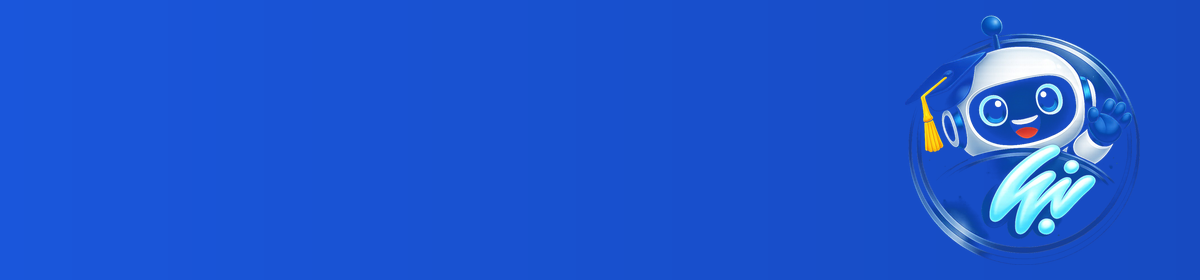
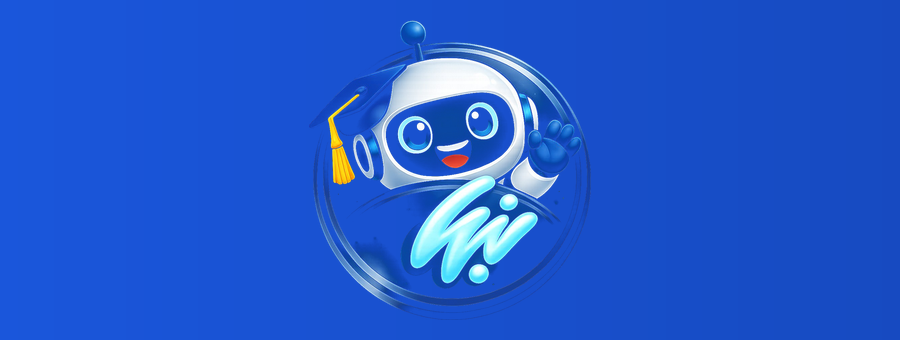
Lead with Projects section, fix mobile crop on advisor image
Move Projects right after About (portfolio should show work first),
renumber section labels and sidebar nav to match. Recenter the robot
mascot in the advisor banner so cover-crop doesn't hide it on narrow
mobile viewports.

Changed region(s): [[0.3422, 0.0571, 0.6844, 0.9143], [0.7467, 0.1143, 0.9644, 0.9143], [0.8089, 0.0571, 0.84, 0.1143]]

diff --git a/index.html b/index.html
@@ -660,9 +660,9 @@ body{
     <nav class="s-nav ld ld-5" aria-label="Page sections">
       <div class="s-nav-lbl">Navigation</div>
       <a href="#about"          class="active" onclick="closeSidebar()">About</a>
+      <a href="#projects"       onclick="closeSidebar()">Projects</a>
       <a href="#experience"     onclick="closeSidebar()">Experience</a>
       <a href="#skills"         onclick="closeSidebar()">Skills</a>
-      <a href="#projects"       onclick="closeSidebar()">Projects</a>
       <a href="#certifications" onclick="closeSidebar()">Certifications</a>
       <a href="#education"      onclick="closeSidebar()">Education</a>
     </nav>
@@ -727,118 +727,9 @@ body{
 
     </section>
 
-    <!-- ── Experience ── -->
-    <section class="sec" id="experience" aria-label="Experience">
-      <div class="sec-lbl rv">02 — Experience</div>
-
-      <div class="tl">
-
-        <div class="tl-row rv" style="transition-delay:.05s">
-          <div class="tl-when">Oct – Dec 2025</div>
-          <div>
-            <div class="tl-role">Cloud Services Trainee</div>
-            <div class="tl-co">National Telecommunication Institute (NTI)</div>
-            <ul class="tl-pts">
-              <li>Hands-on with 8 core AWS services: EC2, S3, IAM, VPC, Lambda, RDS, CloudWatch.</li>
-              <li>Designed secure, scalable architectures aligned with Solutions Architect best practices.</li>
-              <li>Reduced projected cloud costs by 20% through optimized IAM policies and networking.</li>
-            </ul>
-          </div>
-        </div>
-
-        <div class="tl-row rv" style="transition-delay:.10s">
-          <div class="tl-when">Aug 2025</div>
-          <div>
-            <div class="tl-role">NLP Trainee</div>
-            <div class="tl-co">National Telecommunication Institute (NTI)</div>
-            <ul class="tl-pts">
-              <li>Top performer — 98% final score across 120 hours of intensive NLP training.</li>
-              <li>Built RAG-based apps using embedding models and vector databases across 5+ use cases.</li>
-              <li>Improved response relevance by 35% via optimized chunking and similarity search.</li>
-            </ul>
-          </div>
-        </div>
-
-        <div class="tl-row rv" style="transition-delay:.15s">
-          <div class="tl-when">Oct 2024 –<br>Jun 2025</div>
-          <div>
-            <div class="tl-role">ML Trainee</div>
-            <div class="tl-co">Digital Egypt Pioneers Initiative (DEPI)</div>
-            <ul class="tl-pts">
-              <li>9-month intensive program covering NLP, Computer Vision, and end-to-end ML pipelines.</li>
-              <li>Built and evaluated 10+ models with PyTorch — up to 91% accuracy on benchmarks.</li>
-              <li>Deployed on Azure and HuggingFace Spaces, cutting inference latency by 25%.</li>
-            </ul>
-          </div>
-        </div>
-
-      </div>
-    </section>
-
-    <!-- ── Skills ── -->
-    <section class="sec" id="skills" aria-label="Skills">
-      <div class="sec-lbl rv">03 — Skills</div>
-
-      <div class="sk-grid rv" style="transition-delay:.05s">
-
-        <div>
-          <div class="sk-group-lbl">LLMs &amp; Agentic AI</div>
-          <div class="sk-tags">
-            <span class="sk-tag core">LangChain</span>
-            <span class="sk-tag core">LangGraph</span>
-            <span class="sk-tag core">RAG</span>
-            <span class="sk-tag">HuggingFace</span>
-            <span class="sk-tag">CrewAI</span>
-            <span class="sk-tag">n8n</span>
-            <span class="sk-tag">Ollama</span>
-            <span class="sk-tag">Prompt Engineering</span>
-            <span class="sk-tag">Fine-tuning</span>
-          </div>
-        </div>
-
-        <div>
-          <div class="sk-group-lbl">Programming &amp; ML</div>
-          <div class="sk-tags">
-            <span class="sk-tag core">Python (Advanced)</span>
-            <span class="sk-tag core">PyTorch</span>
-            <span class="sk-tag">C++</span>
-            <span class="sk-tag">Pandas</span>
-            <span class="sk-tag">NumPy</span>
-            <span class="sk-tag">YOLO</span>
-            <span class="sk-tag">OpenCV</span>
-            <span class="sk-tag">Sentence Transformers</span>
-          </div>
-        </div>
-
-        <div>
-          <div class="sk-group-lbl">Deployment &amp; Cloud</div>
-          <div class="sk-tags">
-            <span class="sk-tag core">AWS</span>
-            <span class="sk-tag">Docker</span>
-            <span class="sk-tag">FastAPI</span>
-            <span class="sk-tag">Streamlit</span>
-            <span class="sk-tag">Azure</span>
-            <span class="sk-tag">HuggingFace Spaces</span>
-          </div>
-        </div>
-
-        <div>
-          <div class="sk-group-lbl">Databases &amp; Vector Stores</div>
-          <div class="sk-tags">
-            <span class="sk-tag core">FAISS</span>
-            <span class="sk-tag core">Chroma</span>
-            <span class="sk-tag">MySQL</span>
-            <span class="sk-tag">MongoDB</span>
-            <span class="sk-tag">Neo4j</span>
-          </div>
-        </div>
-
-      </div>
-    </section>
-
     <!-- ── Projects ── -->
     <section class="sec" id="projects" aria-label="Projects">
-      <div class="sec-lbl rv">04 — Projects</div>
+      <div class="sec-lbl rv">02 — Projects</div>
 
       <div class="proj-list">
 
@@ -996,6 +887,115 @@ body{
               <span class="pt">Google Drive API</span>
               <span class="pt">Docker</span>
             </div>
+          </div>
+        </div>
+
+      </div>
+    </section>
+
+    <!-- ── Experience ── -->
+    <section class="sec" id="experience" aria-label="Experience">
+      <div class="sec-lbl rv">03 — Experience</div>
+
+      <div class="tl">
+
+        <div class="tl-row rv" style="transition-delay:.05s">
+          <div class="tl-when">Oct – Dec 2025</div>
+          <div>
+            <div class="tl-role">Cloud Services Trainee</div>
+            <div class="tl-co">National Telecommunication Institute (NTI)</div>
+            <ul class="tl-pts">
+              <li>Hands-on with 8 core AWS services: EC2, S3, IAM, VPC, Lambda, RDS, CloudWatch.</li>
+              <li>Designed secure, scalable architectures aligned with Solutions Architect best practices.</li>
+              <li>Reduced projected cloud costs by 20% through optimized IAM policies and networking.</li>
+            </ul>
+          </div>
+        </div>
+
+        <div class="tl-row rv" style="transition-delay:.10s">
+          <div class="tl-when">Aug 2025</div>
+          <div>
+            <div class="tl-role">NLP Trainee</div>
+            <div class="tl-co">National Telecommunication Institute (NTI)</div>
+            <ul class="tl-pts">
+              <li>Top performer — 98% final score across 120 hours of intensive NLP training.</li>
+              <li>Built RAG-based apps using embedding models and vector databases across 5+ use cases.</li>
+              <li>Improved response relevance by 35% via optimized chunking and similarity search.</li>
+            </ul>
+          </div>
+        </div>
+
+        <div class="tl-row rv" style="transition-delay:.15s">
+          <div class="tl-when">Oct 2024 –<br>Jun 2025</div>
+          <div>
+            <div class="tl-role">ML Trainee</div>
+            <div class="tl-co">Digital Egypt Pioneers Initiative (DEPI)</div>
+            <ul class="tl-pts">
+              <li>9-month intensive program covering NLP, Computer Vision, and end-to-end ML pipelines.</li>
+              <li>Built and evaluated 10+ models with PyTorch — up to 91% accuracy on benchmarks.</li>
+              <li>Deployed on Azure and HuggingFace Spaces, cutting inference latency by 25%.</li>
+            </ul>
+          </div>
+        </div>
+
+      </div>
+    </section>
+
+    <!-- ── Skills ── -->
+    <section class="sec" id="skills" aria-label="Skills">
+      <div class="sec-lbl rv">04 — Skills</div>
+
+      <div class="sk-grid rv" style="transition-delay:.05s">
+
+        <div>
+          <div class="sk-group-lbl">LLMs &amp; Agentic AI</div>
+          <div class="sk-tags">
+            <span class="sk-tag core">LangChain</span>
+            <span class="sk-tag core">LangGraph</span>
+            <span class="sk-tag core">RAG</span>
+            <span class="sk-tag">HuggingFace</span>
+            <span class="sk-tag">CrewAI</span>
+            <span class="sk-tag">n8n</span>
+            <span class="sk-tag">Ollama</span>
+            <span class="sk-tag">Prompt Engineering</span>
+            <span class="sk-tag">Fine-tuning</span>
+          </div>
+        </div>
+
+        <div>
+          <div class="sk-group-lbl">Programming &amp; ML</div>
+          <div class="sk-tags">
+            <span class="sk-tag core">Python (Advanced)</span>
+            <span class="sk-tag core">PyTorch</span>
+            <span class="sk-tag">C++</span>
+            <span class="sk-tag">Pandas</span>
+            <span class="sk-tag">NumPy</span>
+            <span class="sk-tag">YOLO</span>
+            <span class="sk-tag">OpenCV</span>
+            <span class="sk-tag">Sentence Transformers</span>
+          </div>
+        </div>
+
+        <div>
+          <div class="sk-group-lbl">Deployment &amp; Cloud</div>
+          <div class="sk-tags">
+            <span class="sk-tag core">AWS</span>
+            <span class="sk-tag">Docker</span>
+            <span class="sk-tag">FastAPI</span>
+            <span class="sk-tag">Streamlit</span>
+            <span class="sk-tag">Azure</span>
+            <span class="sk-tag">HuggingFace Spaces</span>
+          </div>
+        </div>
+
+        <div>
+          <div class="sk-group-lbl">Databases &amp; Vector Stores</div>
+          <div class="sk-tags">
+            <span class="sk-tag core">FAISS</span>
+            <span class="sk-tag core">Chroma</span>
+            <span class="sk-tag">MySQL</span>
+            <span class="sk-tag">MongoDB</span>
+            <span class="sk-tag">Neo4j</span>
           </div>
         </div>
 